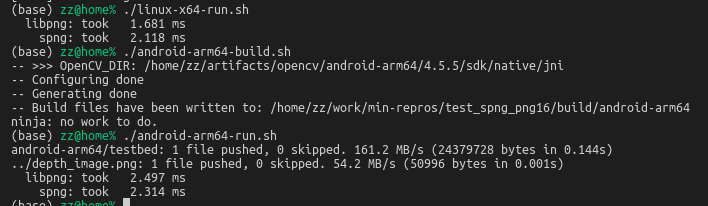
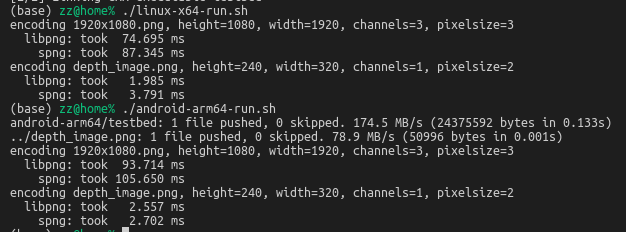
Support 8uc1, 8uc3, add 8uc3 perf compare result

Changed region(s): [[0.0, 0.0, 1.0, 1.0]]

diff --git a/test_spng_png16/testbed.cpp b/test_spng_png16/testbed.cpp
@@ -1,5 +1,7 @@
 #include "spng.h"
 #include <cstddef>
+#include <opencv2/imgcodecs.hpp>
+#include <opencv2/imgproc.hpp>
 #include <stdio.h>
 #include <string>
 
@@ -12,12 +14,13 @@ using namespace cv;
 #include "png.h"
 #include "zlib.h"
 
-int save_image_16uc1_spng(const std::string& image_path, const cv::Mat& src)
+int save_image_spng(const std::string& image_path, const cv::Mat& src, const std::vector<int>& params = {})
 {
-    if (src.type() != CV_16UC1) {
-        fprintf(stderr, "%s: only support 16uc1 type\n", __FUNCTION__);
-        return -1;
-    }
+    int depth = src.depth();
+    if( depth != CV_8U && depth != CV_16U )
+        return false;
+
+    bool m_buf = false;
 
     cv::Size size = src.size();
     const uint32_t height = size.height;
@@ -26,12 +29,26 @@ int save_image_16uc1_spng(const std::string& image_path, const cv::Mat& src)
     void* image = src.data;
     size_t png_size;
     int ret = 0;
+    FILE* volatile f = nullptr;
+    const int channels = src.channels();
 
     /* Creating an encoder context requires a flag */
     spng_ctx *ctx = spng_ctx_new(SPNG_CTX_ENCODER);
 
-    FILE* fout = fopen(image_path.c_str(), "wb");
-    spng_set_png_file(ctx, fout);
+
+    if (m_buf) 
+    {
+        // png_set_write_fn(png_ptr, this,
+        //     (png_rw_ptr)writeDataToBuf, (png_flush_ptr)flushBuf);
+        
+        //spng_set_png_stream(ctx, writeDataToBuf, flushBuf);
+    }
+    else
+    {
+        f = fopen(image_path.c_str(), "wb");
+        if (f)
+            spng_set_png_file(ctx, f);
+    }
 
     /* Encode to internal buffer managed by the library */
     spng_set_option(ctx, SPNG_ENCODE_TO_BUFFER, 1);
@@ -40,8 +57,8 @@ int save_image_16uc1_spng(const std::string& image_path, const cv::Mat& src)
     struct spng_ihdr ihdr;
     ihdr.height = height;
     ihdr.width = width;
-    ihdr.bit_depth = src.elemSize() * 8;
-    ihdr.color_type = SPNG_COLOR_TYPE_GRAYSCALE;
+    ihdr.bit_depth = src.elemSize1() * 8;
+    ihdr.color_type = channels == 1 ? SPNG_COLOR_TYPE_GRAYSCALE : channels == 3 ? SPNG_COLOR_TYPE_TRUECOLOR : SPNG_COLOR_TYPE_TRUECOLOR_ALPHA;
     ihdr.compression_method = 0;
     ihdr.filter_method = 0;
     ihdr.interlace_method = 0;
@@ -49,54 +66,86 @@ int save_image_16uc1_spng(const std::string& image_path, const cv::Mat& src)
     //-------------------------
     int compression_level = -1;
     int compression_strategy = IMWRITE_PNG_STRATEGY_RLE; // Default strategy
-    //todo: opencv use {} param, should we support it?
+    bool isBilevel = false; // biBilevel is for png_set_packing(), which not supported by libspng now(2022.3.27)
 
-    if( compression_level >= 0 )
+    for( size_t i = 0; i < params.size(); i += 2 )
     {
-        //png_set_compression_level( png_ptr, compression_level );
-        spng_set_option(ctx, SPNG_IMG_COMPRESSION_LEVEL, compression_level);
+        if( params[i] == IMWRITE_PNG_COMPRESSION )
+        {
+            compression_strategy = IMWRITE_PNG_STRATEGY_DEFAULT; // Default strategy
+            compression_level = params[i+1];
+            compression_level = MIN(MAX(compression_level, 0), Z_BEST_COMPRESSION);
+        }
+        if( params[i] == IMWRITE_PNG_STRATEGY )
+        {
+            compression_strategy = params[i+1];
+            compression_strategy = MIN(MAX(compression_strategy, 0), Z_FIXED);
+        }
+        if( params[i] == IMWRITE_PNG_BILEVEL )
+        {
+            isBilevel = params[i+1] != 0;
+        }
     }
-    else
+
+    if (m_buf || f)
     {
-        // tune parameters for speed
-        // (see http://wiki.linuxquestions.org/wiki/Libpng)
-        // png_set_filter(png_ptr, PNG_FILTER_TYPE_BASE, PNG_FILTER_SUB);
-        spng_set_option(ctx, SPNG_FILTER_CHOICE, SPNG_FILTER_CHOICE_SUB);
-        //png_set_compression_level(png_ptr, Z_BEST_SPEED);
-        spng_set_option(ctx, SPNG_IMG_COMPRESSION_LEVEL, Z_BEST_SPEED);
-    }
-    //png_set_compression_strategy(png_ptr, compression_strategy);
-    spng_set_option(ctx, SPNG_IMG_COMPRESSION_STRATEGY, compression_strategy);
-    //-------------------------
+        if( compression_level >= 0 )
+        {
+            //png_set_compression_level( png_ptr, compression_level );
+            spng_set_option(ctx, SPNG_IMG_COMPRESSION_LEVEL, compression_level);
+        }
+        else
+        {
+            // tune parameters for speed
+            // (see http://wiki.linuxquestions.org/wiki/Libpng)
+            // png_set_filter(png_ptr, PNG_FILTER_TYPE_BASE, PNG_FILTER_SUB);
+            spng_set_option(ctx, SPNG_FILTER_CHOICE, SPNG_FILTER_CHOICE_SUB);
+            //png_set_compression_level(png_ptr, Z_BEST_SPEED);
+            spng_set_option(ctx, SPNG_IMG_COMPRESSION_LEVEL, Z_BEST_SPEED);
+        }
+        //png_set_compression_strategy(png_ptr, compression_strategy);
+        spng_set_option(ctx, SPNG_IMG_COMPRESSION_STRATEGY, compression_strategy);
+        //-------------------------
 
+        /* Image will be encoded according to ihdr.color_type, .bit_depth */
+        ret = spng_set_ihdr(ctx, &ihdr);
+        if (ret != 0)
+        {
+            printf("spng_set_ihdr() error: %s\n", spng_strerror(ret));
+        }
 
-    /* Image will be encoded according to ihdr.color_type, .bit_depth */
-    spng_set_ihdr(ctx, &ihdr);
+        // png_set_bgr(); // There is no replacement of `png_set_bgr()` in libspng. we have to manually implement it
+        if (channels == 3)
+        {
+            cv::cvtColor(src, src, cv::COLOR_BGR2RGB);
+        }
+        else if (channels == 4)
+        {
+            cv::cvtColor(src, src, cv::COLOR_BGRA2RGBA);
+        }
 
-    /* SPNG_FMT_PNG is a special value that matches the format in ihdr,
-    SPNG_ENCODE_FINALIZE will finalize the PNG with the end-of-file marker */
-    spng_format fmt = SPNG_FMT_PNG;
-    ret = spng_encode_image(ctx, image, image_size, fmt, SPNG_ENCODE_FINALIZE);
-    if (ret != 0) {
-        printf("spng_encode_image() error: %s\n", spng_strerror(ret));
+        /* SPNG_FMT_PNG is a special value that matches the format in ihdr,
+        SPNG_ENCODE_FINALIZE will finalize the PNG with the end-of-file marker */
+        spng_format fmt = SPNG_FMT_PNG;
+        ret = spng_encode_image(ctx, image, image_size, fmt, SPNG_ENCODE_FINALIZE);
+        if (ret != 0) {
+            printf("spng_encode_image() error: %s\n", spng_strerror(ret));
+        }
     }
 
     /* Free context memory */
     spng_ctx_free(ctx);
 
-    fclose(fout);
+    if(f) fclose(f);
 
     return 0;
 }
 
 
 
-int save_image_16uc1_libpng(const std::string& save_path, const cv::Mat& img)
+int save_image_libpng(const std::string& filename, const cv::Mat& img, const std::vector<int>& params = {})
 {
-    const std::vector<int>& params = {}; // useless
-
     bool m_buf = false;
-    std::string filename = "result_libpng.png";
 
     png_structp png_ptr = png_create_write_struct( PNG_LIBPNG_VER_STRING, 0, 0, 0 );
     png_infop info_ptr = 0;
@@ -236,17 +285,22 @@ void show_png16(const std::string& image_path)
 
 int main()
 {
-    std::string image_path = "depth_image.png";
-    cv::Mat src = cv::imread(image_path, cv::IMREAD_UNCHANGED);
-
+    for (std::string image_path : {"1920x1080.png", "depth_image.png"})
     {
-        AutoTimer timer("libpng");
-        save_image_16uc1_libpng("result_libpng.png", src);
-    }
+        cv::Mat src = cv::imread(image_path, cv::IMREAD_UNCHANGED);
+        fprintf(stderr, "encoding %s, height=%d, width=%d, channels=%d, pixelsize=%lu\n",
+            image_path.c_str(), src.rows, src.cols, src.channels(), src.elemSize()
+        );
 
-    {
-        AutoTimer timer("spng");
-        save_image_16uc1_spng("result_libspng.png", src);
+        {
+            AutoTimer timer("libpng");
+            save_image_libpng("result_libpng.png", src);
+        }
+
+        {
+            AutoTimer timer("spng");
+            save_image_spng("result_libspng.png", src);
+        }
     }
 
     return 0;

diff --git a/test_spng_png16/README.md b/test_spng_png16/README.md
@@ -93,14 +93,21 @@ With the [migration guide](https://libspng.org/docs/migrate-libpng/#encoder-conf
 And the time cost on both Linux x64 and Android arm64 are nearly the same:
 
 ```
-(base) zz@home% ./linux-x64-run.sh  
-  libpng: took   1.681 ms
-    spng: took   2.118 ms
+(base) zz@home% ./linux-x64-run.sh
+encoding 1920x1080.png, height=1080, width=1920, channels=3, pixelsize=3
+  libpng: took  73.181 ms
+    spng: took  87.562 ms
+encoding depth_image.png, height=240, width=320, channels=1, pixelsize=2
+  libpng: took   1.874 ms
+    spng: took   3.896 ms
 ```
 ```
-(base) zz@home% ./android-arm64-run.sh  
-  libpng: took   2.497 ms
-    spng: took   2.314 ms
+encoding 1920x1080.png, height=1080, width=1920, channels=3, pixelsize=3
+  libpng: took  93.955 ms
+    spng: took 106.439 ms
+encoding depth_image.png, height=240, width=320, channels=1, pixelsize=2
+  libpng: took   2.428 ms
+    spng: took   2.623 ms
 ```
 
 ![](libpng_spng_timecost_compare_same_compression.png)
